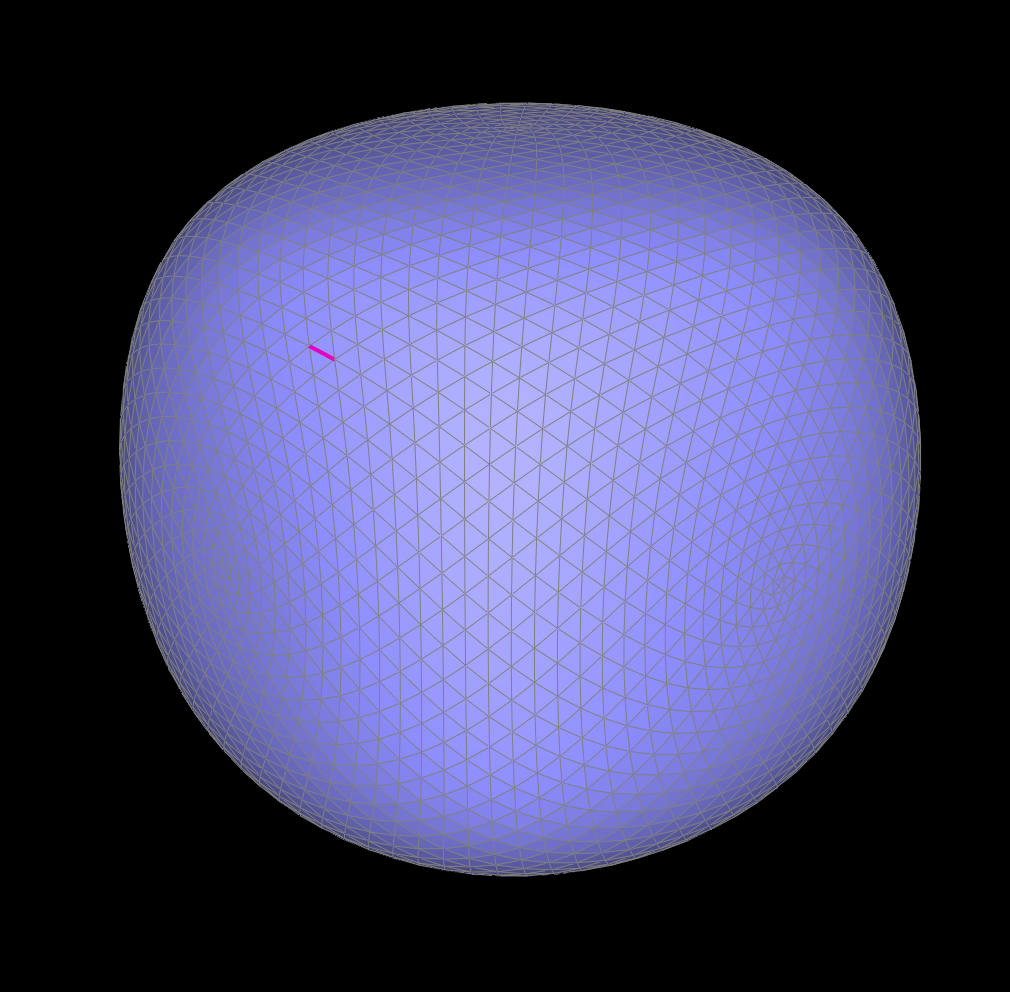
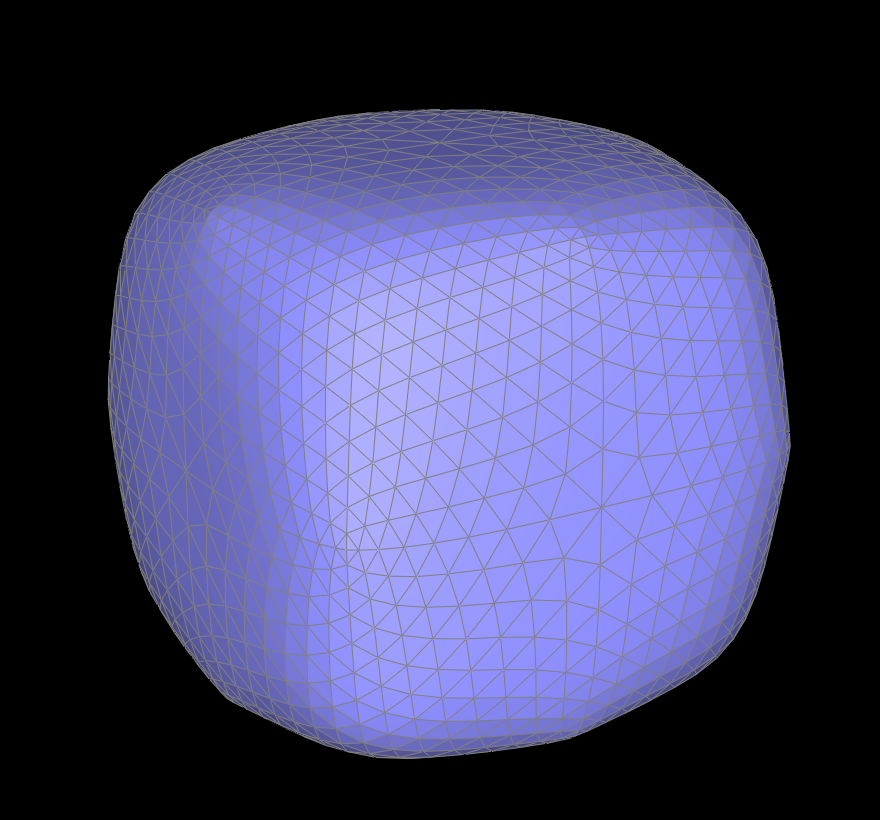
Project 2 Website final test

Changed region(s): [[0.092, 0.0915, 0.9205, 0.9451]]

diff --git a/proj2/index.html b/proj2/index.html
@@ -39,12 +39,12 @@
 	interpolation of two control points is pushed to the larger vector of Vector2Ds, and this vector of vectors is returned,
 	bringing us a step closer to evaluating a point on the Bezier curve. By evaluating t continuously between 0 and 1, we
 	plot out the full Bezier curve we have defined.</p>
-	<img src='./images/task1-1.png' width='200'>
-	<img src='./images/task1-2.png' width='200'>
-	<img src='./images/task1-3.png' width='200'>
-	<img src='./images/task1-4.png' width='200'>
-	<img src='./images/task1-5.png' width='200'>
-	<img src='./images/task1-6.png' width='200'>
+	<img src='./images/task1-1.png' width='250'>
+	<img src='./images/task1-2.png' width='250'>
+	<img src='./images/task1-3.png' width='250'>
+	<img src='./images/task1-4.png' width='250'>
+	<img src='./images/task1-5.png' width='250'>
+	<img src='./images/task1-6.png' width='250'>
 	<p>Above, we see a 6 control point Bezier curve being evaluated through all the steps up to the final point on the curve. Below, we see the completed Bezier curve, as well as a similar curve modified through manipulation of the control points and parameter t.</p>
 	<img src='./images/task1-curve.png' width='400'>
 	<img src='./images/task1-edited.png' width='400'>
@@ -98,7 +98,9 @@
 	updated to guarantee they do not reference a moved halfedge. Interestingly enough, edges themselves do not need to be
 	modified, as no halfedge gets reassigned to another edge, so the edge we return itself does not change after the
 	operation. If an edge is on a boundary, we return the edge without going through any pointer modifications.</p>
-	<img src='./images/edgeflips.JPG' width='800'>
+	<p>Below, we can see the teapot as initially rendered and then after a series of edge flips.</p>
+	<img src='./images/teapot.png' width='400'>
+	<img src='./images/edgeflips.JPG' width='400'>
 	<p>The most eventful part of debugging came while implementing upsampling. We had to completely reassign our pointers
 	multiple times to follow different graphics of edge flipping that we were using as a reference. Additionally, we had to
 	ensure that we were assigning a sufficient amount of pointers for the halfedges, edges, vertices, and faces.</p>
@@ -127,8 +129,10 @@
 	looking at our split edge diagram that we drew out, we finally realized that both our e0 AND our e5 needed to remain as
 	old edges, since e5 wasn’t actually new, but in fact half of the original edge e0. Once we fixed this in our code, our
 	upsample worked perfectly!</p>
-	<img src='./images/edgesplits.JPG' width='800'>
-	<img src='./images/edgeflipsandsplits.JPG' width='800'>
+	<img src='./images/teapot.png' width='400'>
+	<img src='./images/edgesplits.JPG' width='400'>
+	<img src='./images/edgeflipsandsplits.JPG' width='400'>
+	<p>Above, we have a teapot mesh rendered before any manipulation, after a series of edge splits, and lastly after performing both edge flips and edge splits.</p>
 
 	<h2>Task 6</h2>
 	<h3>Things we didn’t take into account/problems encountered and solved:</h3>
@@ -149,14 +153,16 @@
 	new edges that connected one old vertex and one new one (again, using the isNew tags of the vertices and edges). Finally
 	we set all of the new vertex positions using our stored values from earlier.</p>
 	<p>The mesh becomes more detailed, each panel looking like a recursive version of its previous self. The sharp edges and
-	corners become more and more rounded over time.</p>
+	corners become more and more rounded over each loop subdivision, as seen below.</p>
 	<img src='./images/loopsubcube.JPG' width='800'>
 	<p>Yes you can pre-process the cube with edge flips and splits to allow for it to subdivide symmetrically. This prevents
 	the upsampling function from averaging the vertex locations of different faces of the cube, the root cause of the corner
 	smoothing and asymmetricality. If you preprocess correctly, the corners of the cube are preserved much better, as you
-	can see in this image.</p>
-	<img src='./images/cubesharp.png' width='800'>
-	<img src='./images/cubecube.png' width='800'>
+	can see in this series of subdivisions below.</p>
+	<img src='./images/cubesharp.png' width='400'>
+	<img src='./images/cubesharper.png' width='400'>
+	<img src='./images/cubesharpest.png' width='400'>
+	<img src='./images/cubecube.png' width='400'>
 	
 	<p>Our webpage is at https://cal-cs184-student.github.io/sp22-project-webpages-Lukatastic/proj2/index.html</p>
 </body>
